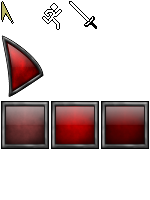
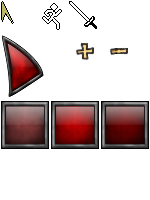
feat: add +- glyphs

Changed region(s): [[0.5067, 0.21, 0.64, 0.3], [0.72, 0.24, 0.8533, 0.3]]

diff --git a/src/common-controls.ts b/src/common-controls.ts
@@ -30,10 +30,10 @@ export class CommonControls {
     })
     this.fullscreenToggleButton.position.set(10, 10);
 
-    this.zoomInButton = new FancyButton(this.DEFAULT_BUTTON_STYLE);
+    this.zoomInButton = new FancyButton({...this.DEFAULT_BUTTON_STYLE, icon: 'glyph_plus.png'});
     this.zoomInButton.position.set(10, 60);
 
-    this.zoomOutButton = new FancyButton(this.DEFAULT_BUTTON_STYLE);
+    this.zoomOutButton = new FancyButton({...this.DEFAULT_BUTTON_STYLE, icon: 'glyph_minus.png'});
     this.zoomOutButton.position.set(10, 110);
 
     this.toggleCoordsButton = new FancyButton(this.DEFAULT_BUTTON_STYLE);
